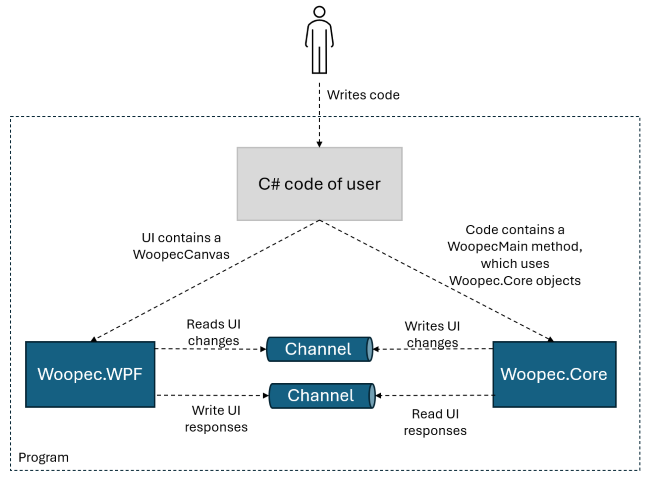
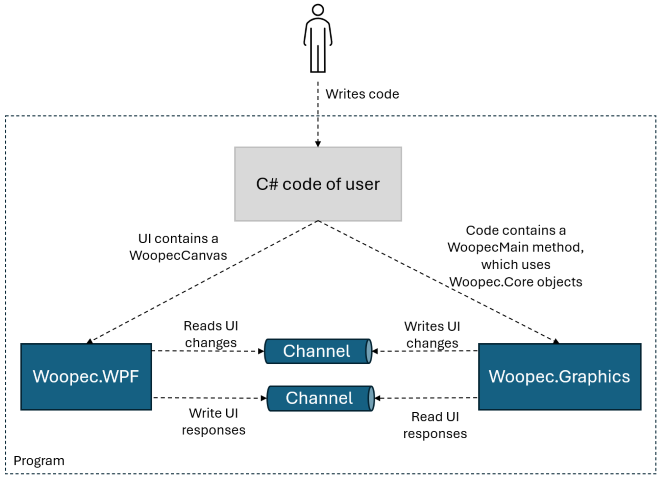
chore: description of level 2

diff --git a/InternalDocumentation/Architecture.md b/InternalDocumentation/Architecture.md
@@ -61,13 +61,23 @@ Erläuterungen:
 
 | Block           | Erläuterung                                                  |
 | --------------- | ------------------------------------------------------------ |
-| Woopec.Core     | Diese Library enthält die Klassen (z.B. `Turtle`) und Methoden (z.B. `Left`), die der User in seinem Code verwendet. Die Library erzeugt dementsprechend Änderungsbefehle für das UI, die über einen Channel an Woopec.WPF weitergegeben werden. Informationen vom UI (z.B. im UI eingegebene Texte) werden aus einem zweiten Rückkanal gelesen |
+| Woopec.Graphics | Diese Library enthält die Klassen (z.B. `Turtle`) und Methoden (z.B. `Left`), die der User in seinem Code verwendet. Die Library erzeugt dementsprechend Änderungsbefehle für das UI, die über einen Channel an Woopec.WPF weitergegeben werden. Informationen vom UI (z.B. im UI eingegebene Texte) werden aus einem zweiten Rückkanal gelesen |
 | Woopec.WPF      | Diese Library liest die Änderungsbefehle aus dem Channel und zeigt die Änderungen in einem WPF UserControl `WoopecCanvas` an. Im UI erfasste Informationen (z.B. im UI eingegebene Texte) werden in einen Rückkanal geschrieben. |
 | C# code of user | Der C# code des Users nutzt in seinem Main Window ein UI-Control vom Typ `WoopecCanvas`, in dem die Woopec-Objekte angezeigt werden. Der Code des Benutzers muss eine Methode mit Namen `WoopecMain` enthalten. In dieser Methode (und von ihr aufgerufenen Methoden) benutzt der Anwender die Klassen (z.B. `Turtle`) und Methoden (z.B. `Left`) von Woopec.Core, um die gewünschten Grafiken zu zeichnen. |
 
 ### 5.2 Level 2
 
-#### 5.2.1 Woopec.Core
+**!!! Schaubild fehlt noch !!!**
+
+
+
+Erläuterungen der Namespaces:
+
+| Block                           | Erläuterung                                                  |
+| ------------------------------- | ------------------------------------------------------------ |
+| Woopec.Graphics                 | Dieser Namespace enthält die Klassen, die von Usern verwendet werden können (Turtle, Figure, Pen, etc.). Diese Klassen sind in der öffentlichen [Woopec Dokumentation](https://frank.woopec.net/woopec-docs-index.html) beschrieben |
+| Woopec.Graphics.InternalObjects | Wie in Abschnitt 5.1 erläutert, tauscht Woopec.Graphics über Channels Informationen mit dem UI aus. Dazu werden Objekte hin und her geschickt. Dieser Namespace enthält diese Objekte. Die Objekte sind einfach zu verstehen und selbsterklärend. |
+| Woopec.Graphics.Internal        | Der technische interne Unterbau für Woopec.Graphics. Der wird weiter unten auf Level 3 genauer beschrieben. |
 
 
 
